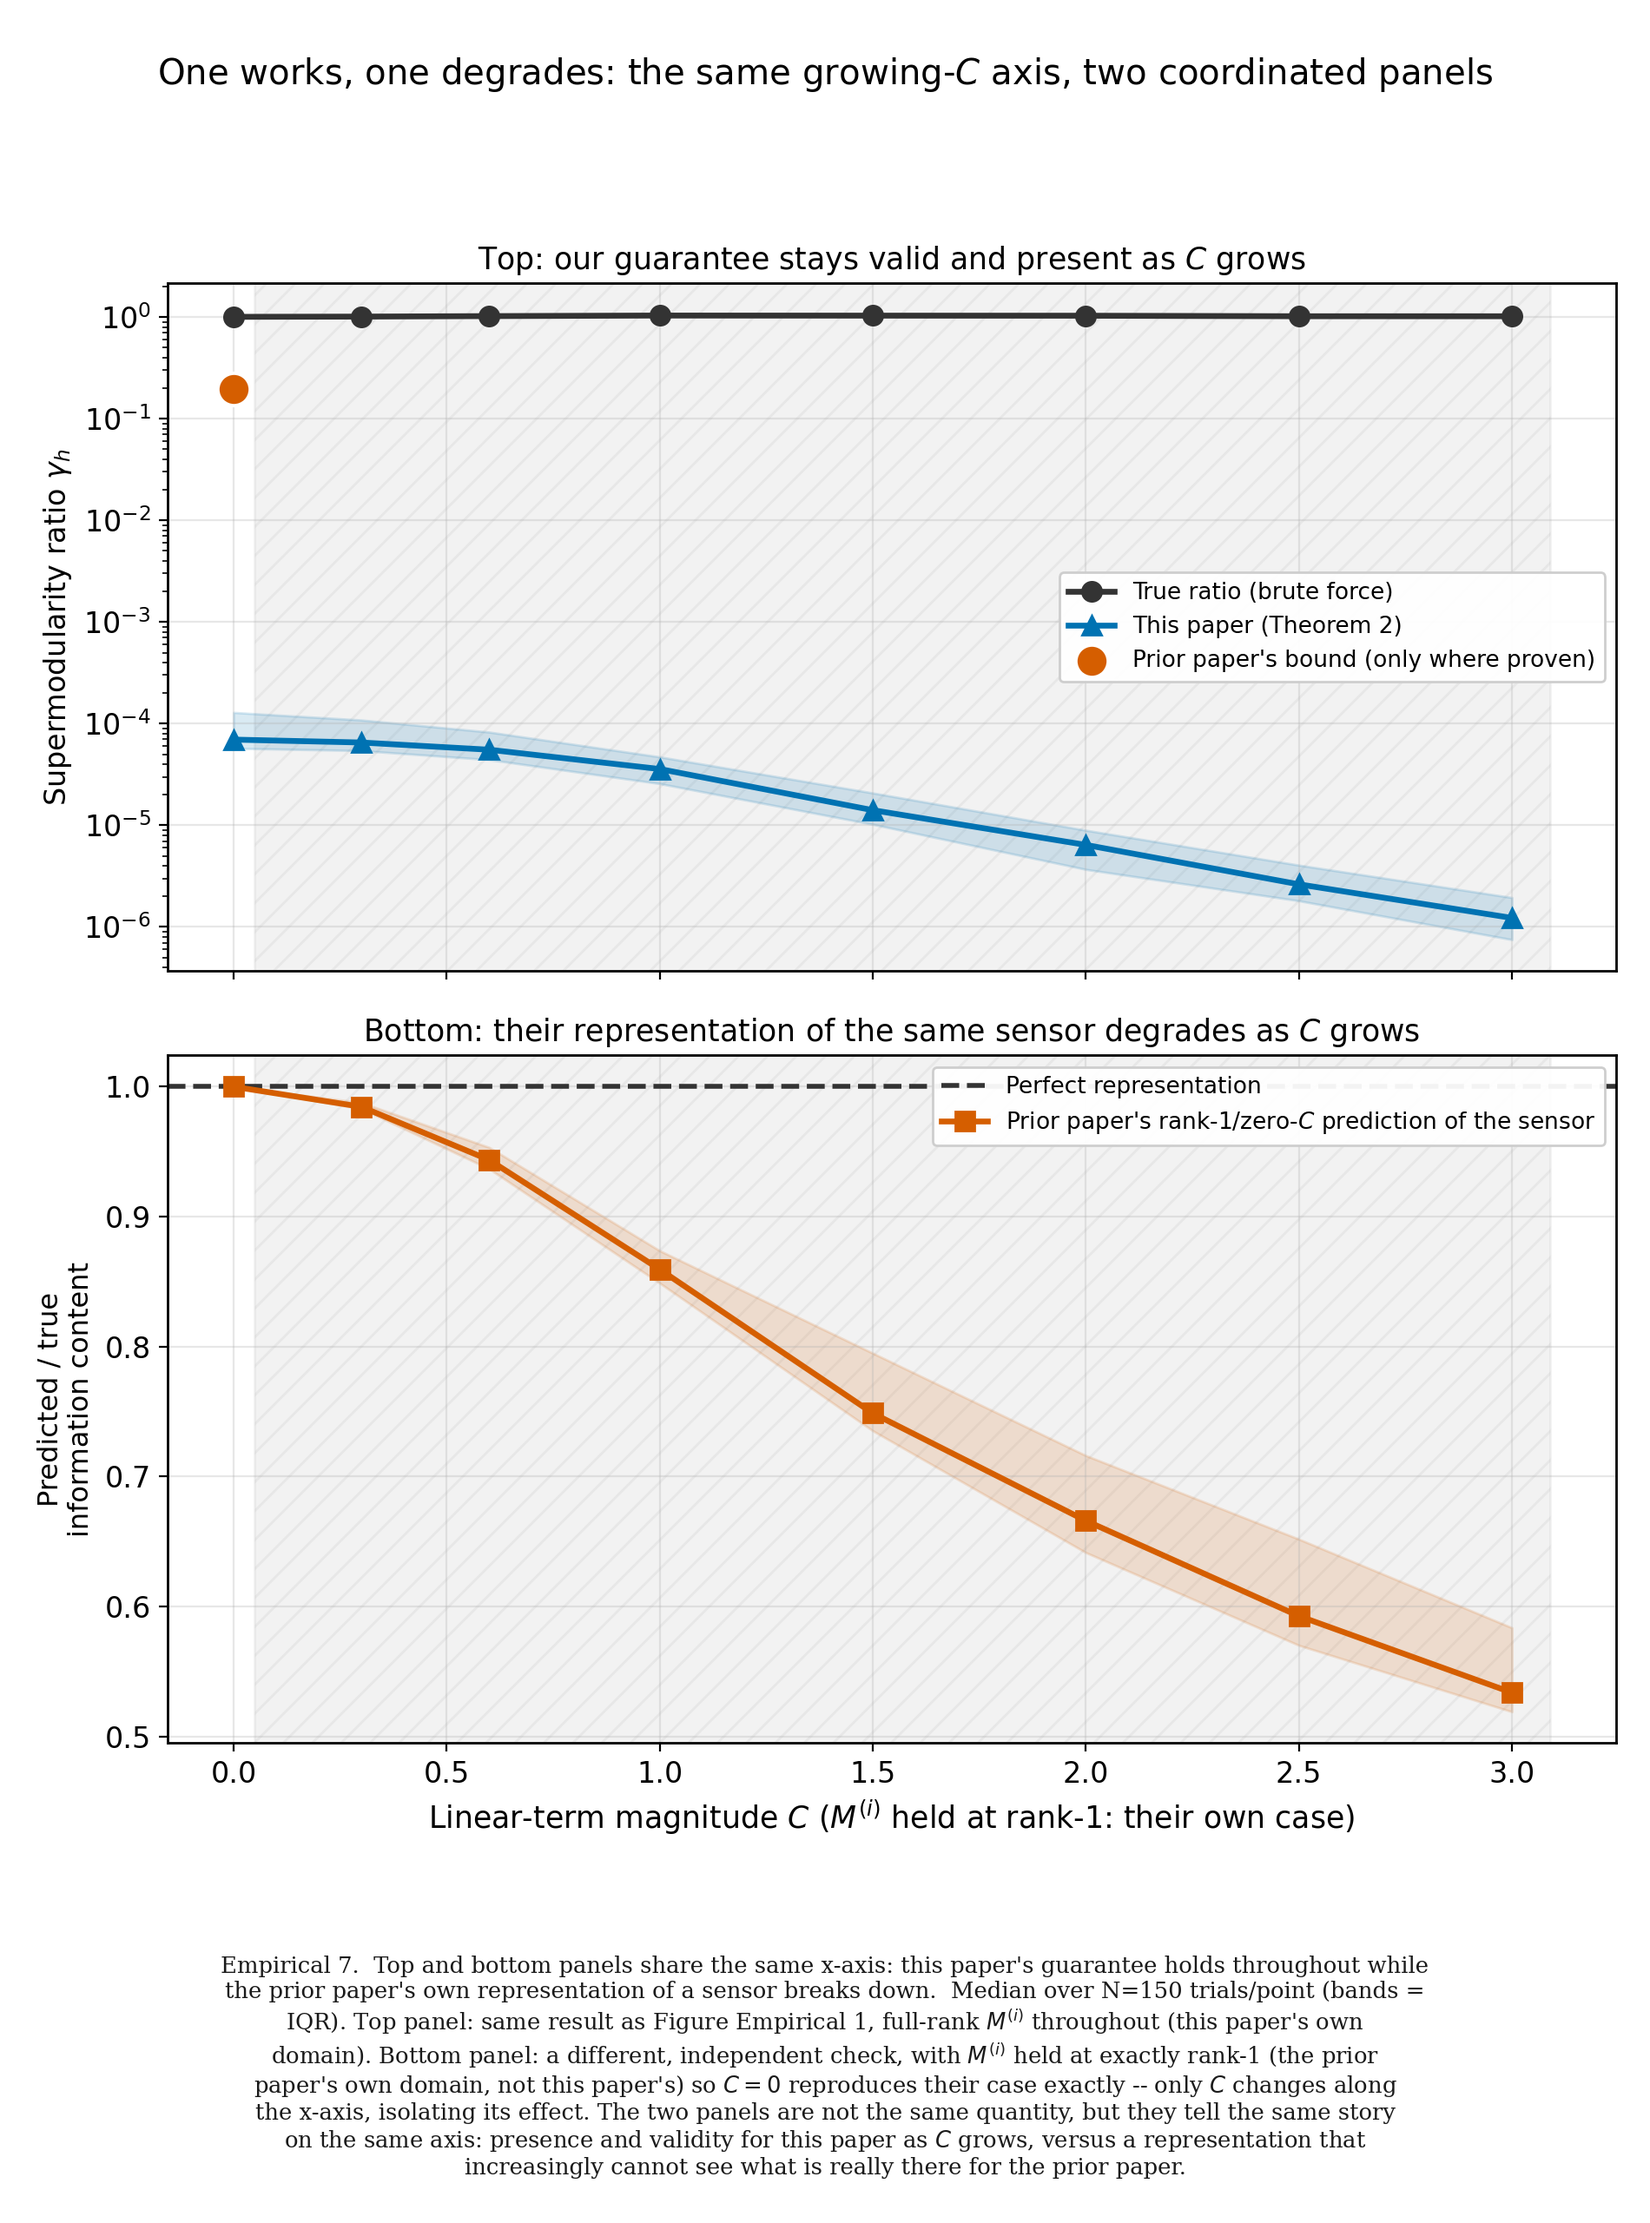
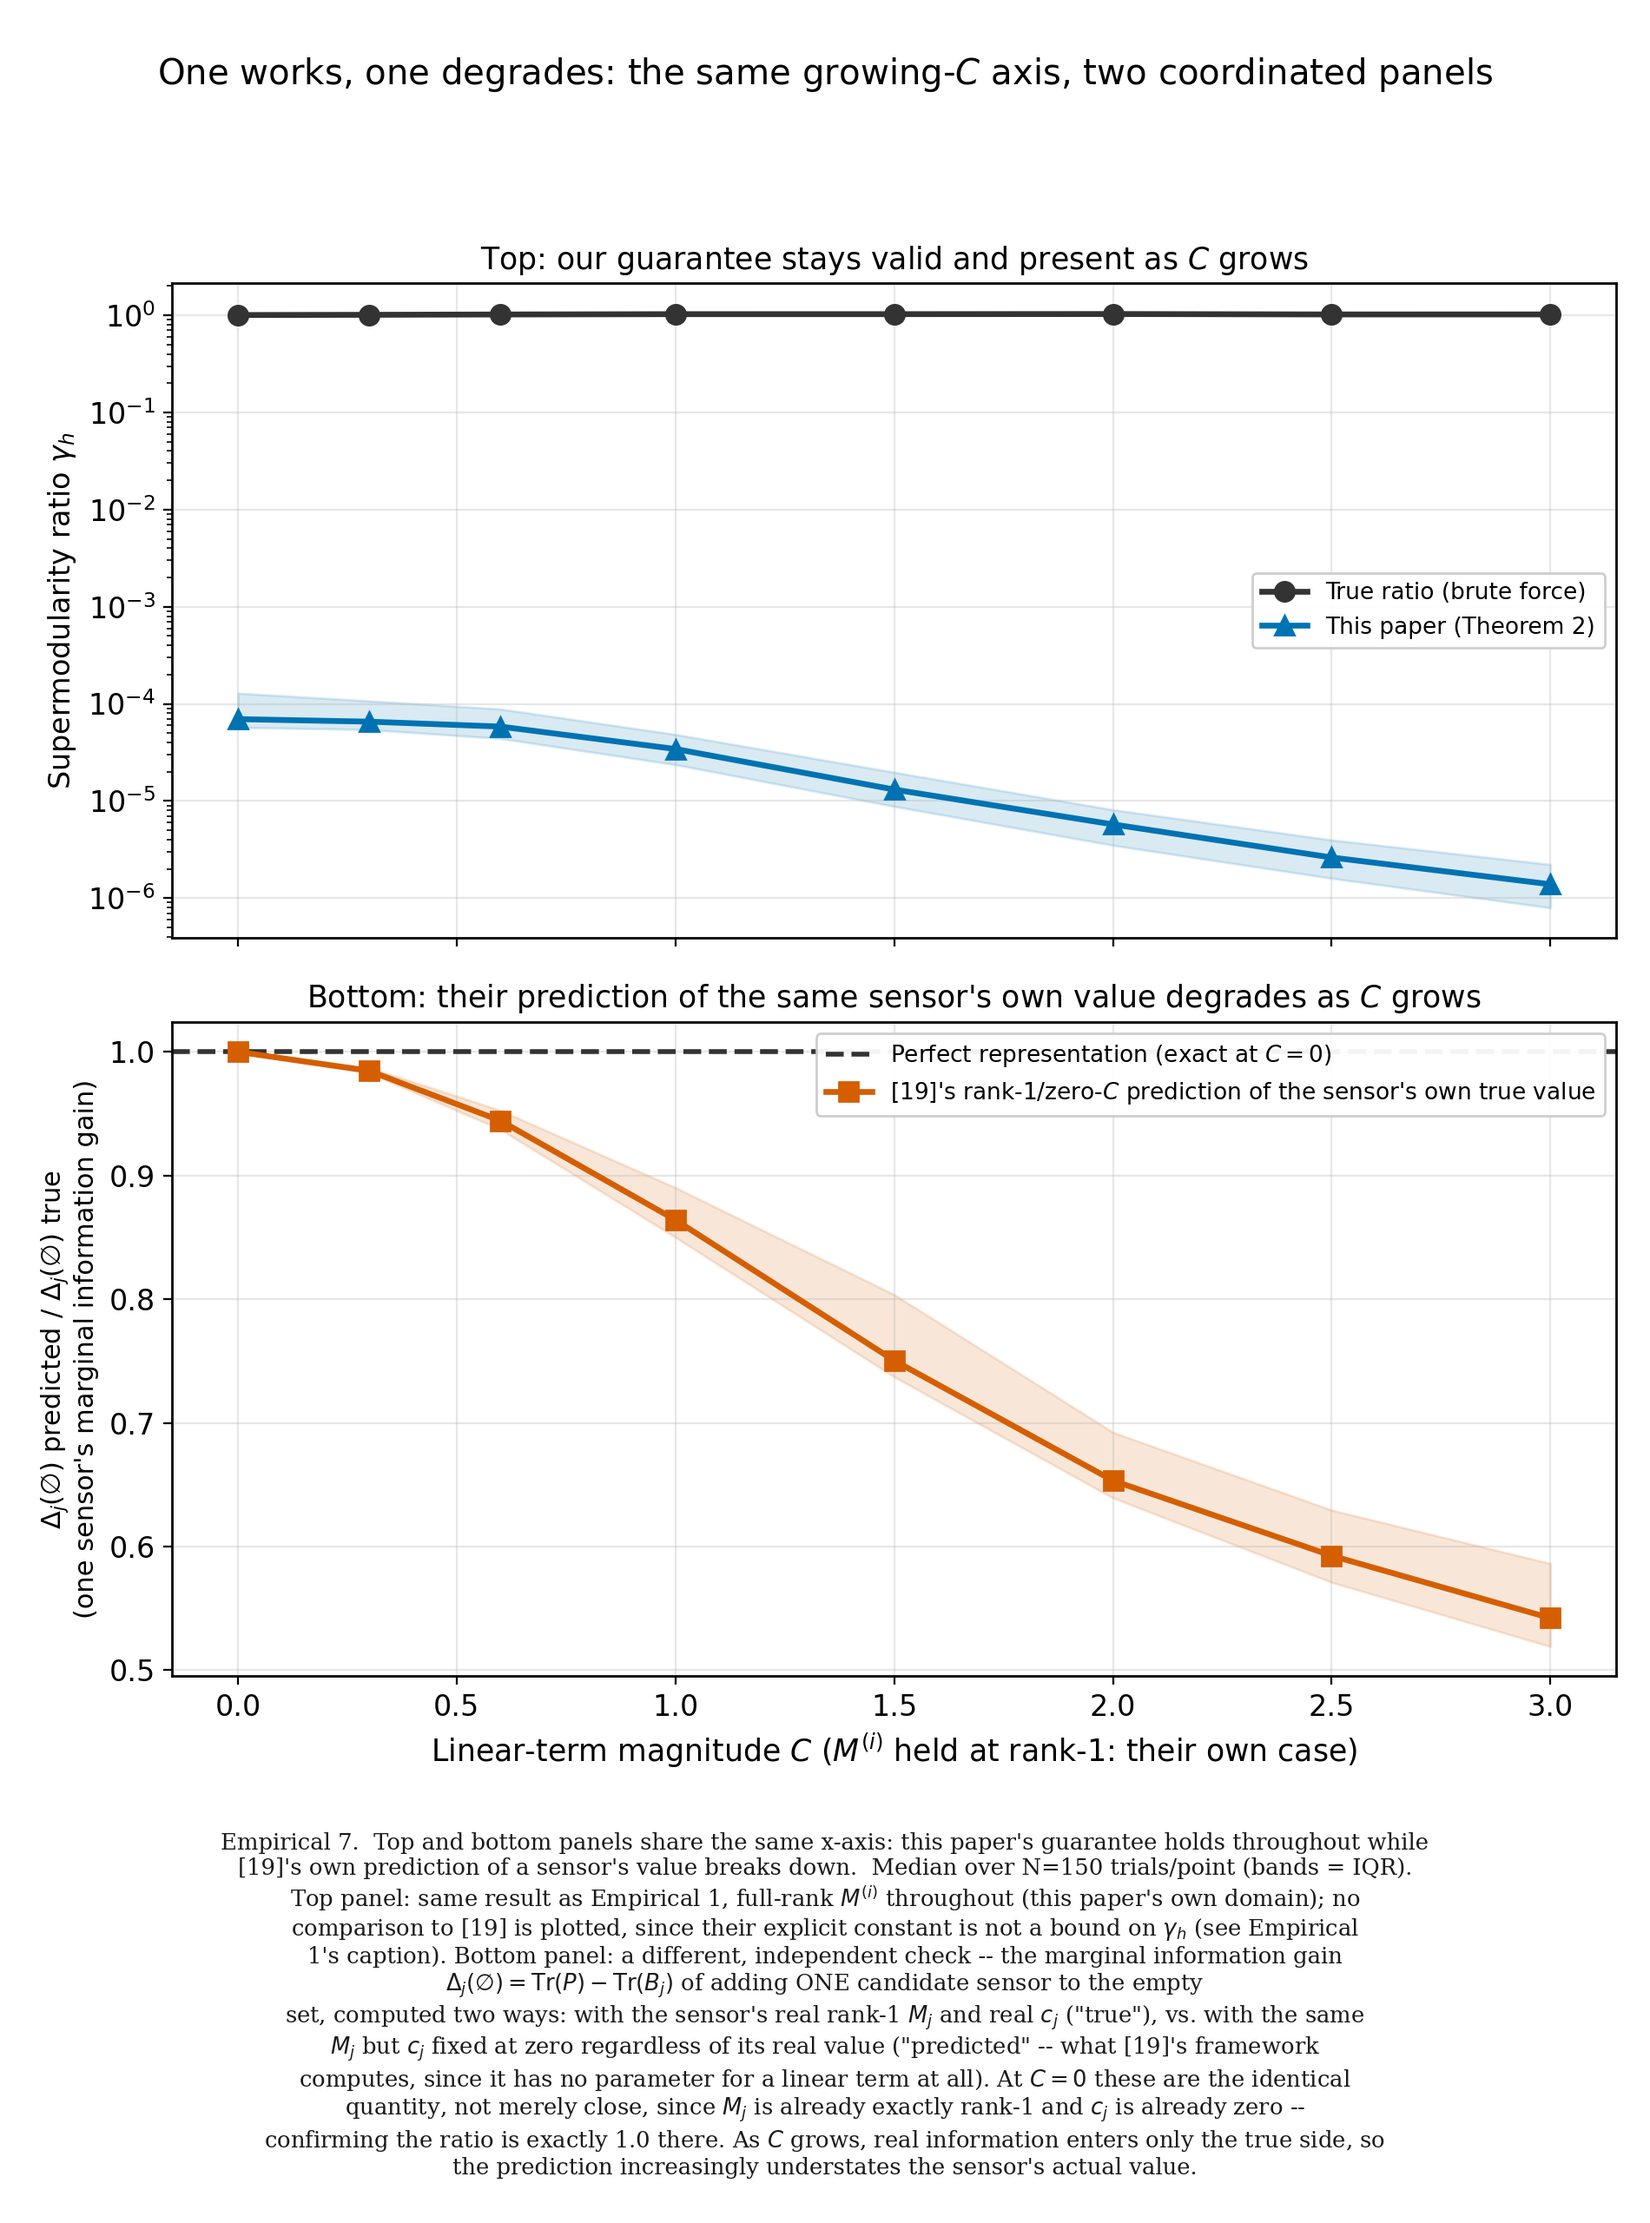
changed figs

diff --git a/LQG_QKF/CDC/fig2_empirical_coverage.py b/LQG_QKF/CDC/fig2_empirical_coverage.py
@@ -562,13 +562,27 @@ def fig2_emp6_selection_cost_vs_C(n_trials=150, R_ratio=0.2):
 # --------------------------------------------------------------------------------------
 
 def fig2_emp7_breakdown_vs_C(n_trials=150):
+    """No number from `prior_bound_c19()` is plotted in the top panel (a change from an earlier version,
+    fixed alongside fig2_emp1/2/8/10 -- this one was missed in that pass and caught only when the user
+    asked a follow-up question about the bottom panel's exact formula). See fig2_emp1's docstring for why:
+    [19]'s explicit constant bounds a differently-defined quantity for a different problem, not gamma_h,
+    so it is not a valid comparison point even at their own rank-1/C=0 case.
+
+    Bottom panel: BOTH curves are the SAME per-sensor marginal-gain formula, `marginal_gain_first_sensor`
+    -- Delta_j(empty) = Tr(P) - Tr(B_j) (Proposition 2's Van Trees bound, one candidate sensor added to
+    the empty set) -- evaluated on two different inputs. "True" uses the real M_j (genuinely rank-1,
+    freshly randomized per trial -- matches [19]'s own hypothesis on the quadratic side exactly) and the
+    real c_j at the current C. "Predicted" uses `restrict_to_rank1_zero_c(M_j)` (a no-op here, since M_j
+    is already exactly rank-1) and c=0, REGARDLESS of the true C being swept -- i.e. what a user of [19]'s
+    framework would compute for this sensor, since their model has no parameter for a linear term at all.
+    At C=0 the two are the IDENTICAL quantity (not just close), since nothing is being approximated away
+    yet -- confirming ratio=1.0 there is an exact reproduction of their case, not a coincidence."""
     rng = np.random.default_rng(107)
     C_scales = np.array([0.0, 0.3, 0.6, 1.0, 1.5, 2.0, 2.5, 3.0])
 
     # Top panel: same coverage-vs-C data as Figure 1 (freshly computed here to keep this figure
     # self-contained rather than re-importing saved numbers).
     true_med, true_lo, true_hi, ours_med, ours_lo, ours_hi = sweep_vs_C(C_scales, SIGMA2, n_trials, rng)
-    prior_val = prior_at_rank1_c0(n_trials, rng)
 
     # Bottom panel: M is held at RANK-1 throughout (the prior paper's own exact hypothesis, unlike the
     # top panel which needs full-rank M) so that C=0 reproduces their case exactly (ratio=1.0) and the
@@ -597,13 +611,10 @@ def fig2_emp7_breakdown_vs_C(n_trials=150):
     fig, axes = plt.subplots(2, 1, figsize=(9.5, 12.8), sharex=True)
 
     ax = axes[0]
-    ax.axvspan(0.05, C_scales.max() * 1.03, color=NA_GRAY, alpha=0.12, zorder=0, hatch='//')
     ax.plot(C_scales, true_med, color=COLORS['empirical'], marker='o', label='True ratio (brute force)', zorder=3)
     ax.fill_between(C_scales, true_lo, true_hi, color=COLORS['empirical'], alpha=0.12)
     ax.plot(C_scales, ours_med, color=COLORS['thm2'], marker='^', label='This paper (Theorem 2)', zorder=4)
     ax.fill_between(C_scales, ours_lo, ours_hi, color=COLORS['thm2'], alpha=0.15)
-    ax.scatter([0.0], [prior_val], s=180, color=COLORS['prior'], zorder=5, edgecolor='white', linewidth=1.4,
-               label="Prior paper's bound (only where proven)")
     ax.set_yscale('log')
     ax.set_ylabel(r'Supermodularity ratio $\gamma_h$', fontsize=12)
     ax.set_title('Top: our guarantee stays valid and present as $C$ grows', fontsize=12.5)
@@ -611,29 +622,32 @@ def fig2_emp7_breakdown_vs_C(n_trials=150):
     ax.legend(loc='center right', fontsize=9.5, framealpha=0.95)
 
     ax = axes[1]
-    ax.axvspan(0.05, C_scales.max() * 1.03, color=NA_GRAY, alpha=0.12, zorder=0, hatch='//')
-    ax.axhline(1.0, color=COLORS['brute'], linestyle='--', linewidth=2, label='Perfect representation', zorder=2)
+    ax.axhline(1.0, color=COLORS['brute'], linestyle='--', linewidth=2, label='Perfect representation (exact at $C=0$)', zorder=2)
     ax.plot(C_scales, pred_med, color=COLORS['prior'], marker='s', zorder=3,
-            label="Prior paper's rank-1/zero-$C$ prediction of the sensor")
+            label="[19]'s rank-1/zero-$C$ prediction of the sensor's own true value")
     ax.fill_between(C_scales, pred_lo, pred_hi, color=COLORS['prior'], alpha=0.15)
     ax.set_xlabel(r'Linear-term magnitude $C$ ($M^{(i)}$ held at rank-1: their own case)', fontsize=12.5)
-    ax.set_ylabel('Predicted / true\ninformation content', fontsize=11.5)
-    ax.set_title("Bottom: their representation of the same sensor degrades as $C$ grows", fontsize=12.5)
+    ax.set_ylabel(r'$\Delta_j(\varnothing)$ predicted / $\Delta_j(\varnothing)$ true' + '\n(one sensor\'s marginal information gain)', fontsize=11)
+    ax.set_title("Bottom: their prediction of the same sensor's own value degrades as $C$ grows", fontsize=12.5)
     ax.grid(alpha=0.3)
     ax.legend(loc='upper right', fontsize=9.5, framealpha=0.95)
 
     fig.suptitle('One works, one degrades: the same growing-$C$ axis, two coordinated panels', y=0.975, fontsize=14.5)
-    fig.tight_layout(rect=[0, 0.155, 1, 0.94])
+    fig.tight_layout(rect=[0, 0.185, 1, 0.94])
     add_caption(
         fig, 'Empirical 7',
-        "Top and bottom panels share the same x-axis: this paper's guarantee holds throughout while the prior paper's own representation of a sensor breaks down.",
-        f"Median over N={n_trials} trials/point (bands = IQR). Top panel: same result as Figure "
-        "Empirical 1, full-rank $M^{(i)}$ throughout (this paper's own domain). Bottom panel: a "
-        "different, independent check, with $M^{(i)}$ held at exactly rank-1 (the prior paper's own "
-        "domain, not this paper's) so $C=0$ reproduces their case exactly -- only $C$ changes along the "
-        "x-axis, isolating its effect. The two panels are not the same quantity, but they tell the same "
-        "story on the same axis: presence and validity for this paper as $C$ grows, versus a "
-        "representation that increasingly cannot see what is really there for the prior paper.",
+        "Top and bottom panels share the same x-axis: this paper's guarantee holds throughout while [19]'s own prediction of a sensor's value breaks down.",
+        f"Median over N={n_trials} trials/point (bands = IQR). Top panel: same result as Empirical 1, "
+        "full-rank $M^{(i)}$ throughout (this paper's own domain); no comparison to [19] is plotted, since "
+        "their explicit constant is not a bound on $\\gamma_h$ (see Empirical 1's caption). Bottom panel: "
+        "a different, independent check -- the marginal information gain $\\Delta_j(\\varnothing) = "
+        "\\mathrm{Tr}(P)-\\mathrm{Tr}(B_j)$ of adding ONE candidate sensor to the empty set, computed two "
+        "ways: with the sensor's real rank-1 $M_j$ and real $c_j$ (\"true\"), vs. with the same $M_j$ but "
+        "$c_j$ fixed at zero regardless of its real value (\"predicted\" -- what [19]'s framework computes, "
+        "since it has no parameter for a linear term at all). At $C=0$ these are the identical quantity, "
+        "not merely close, since $M_j$ is already exactly rank-1 and $c_j$ is already zero -- confirming "
+        "the ratio is exactly 1.0 there. As $C$ grows, real information enters only the true side, so the "
+        "prediction increasingly understates the sensor's actual value.",
         y=0.02,
     )
     fig.savefig(perf_dir + 'fig2_emp7_breakdown_vs_C.png', dpi=200)
